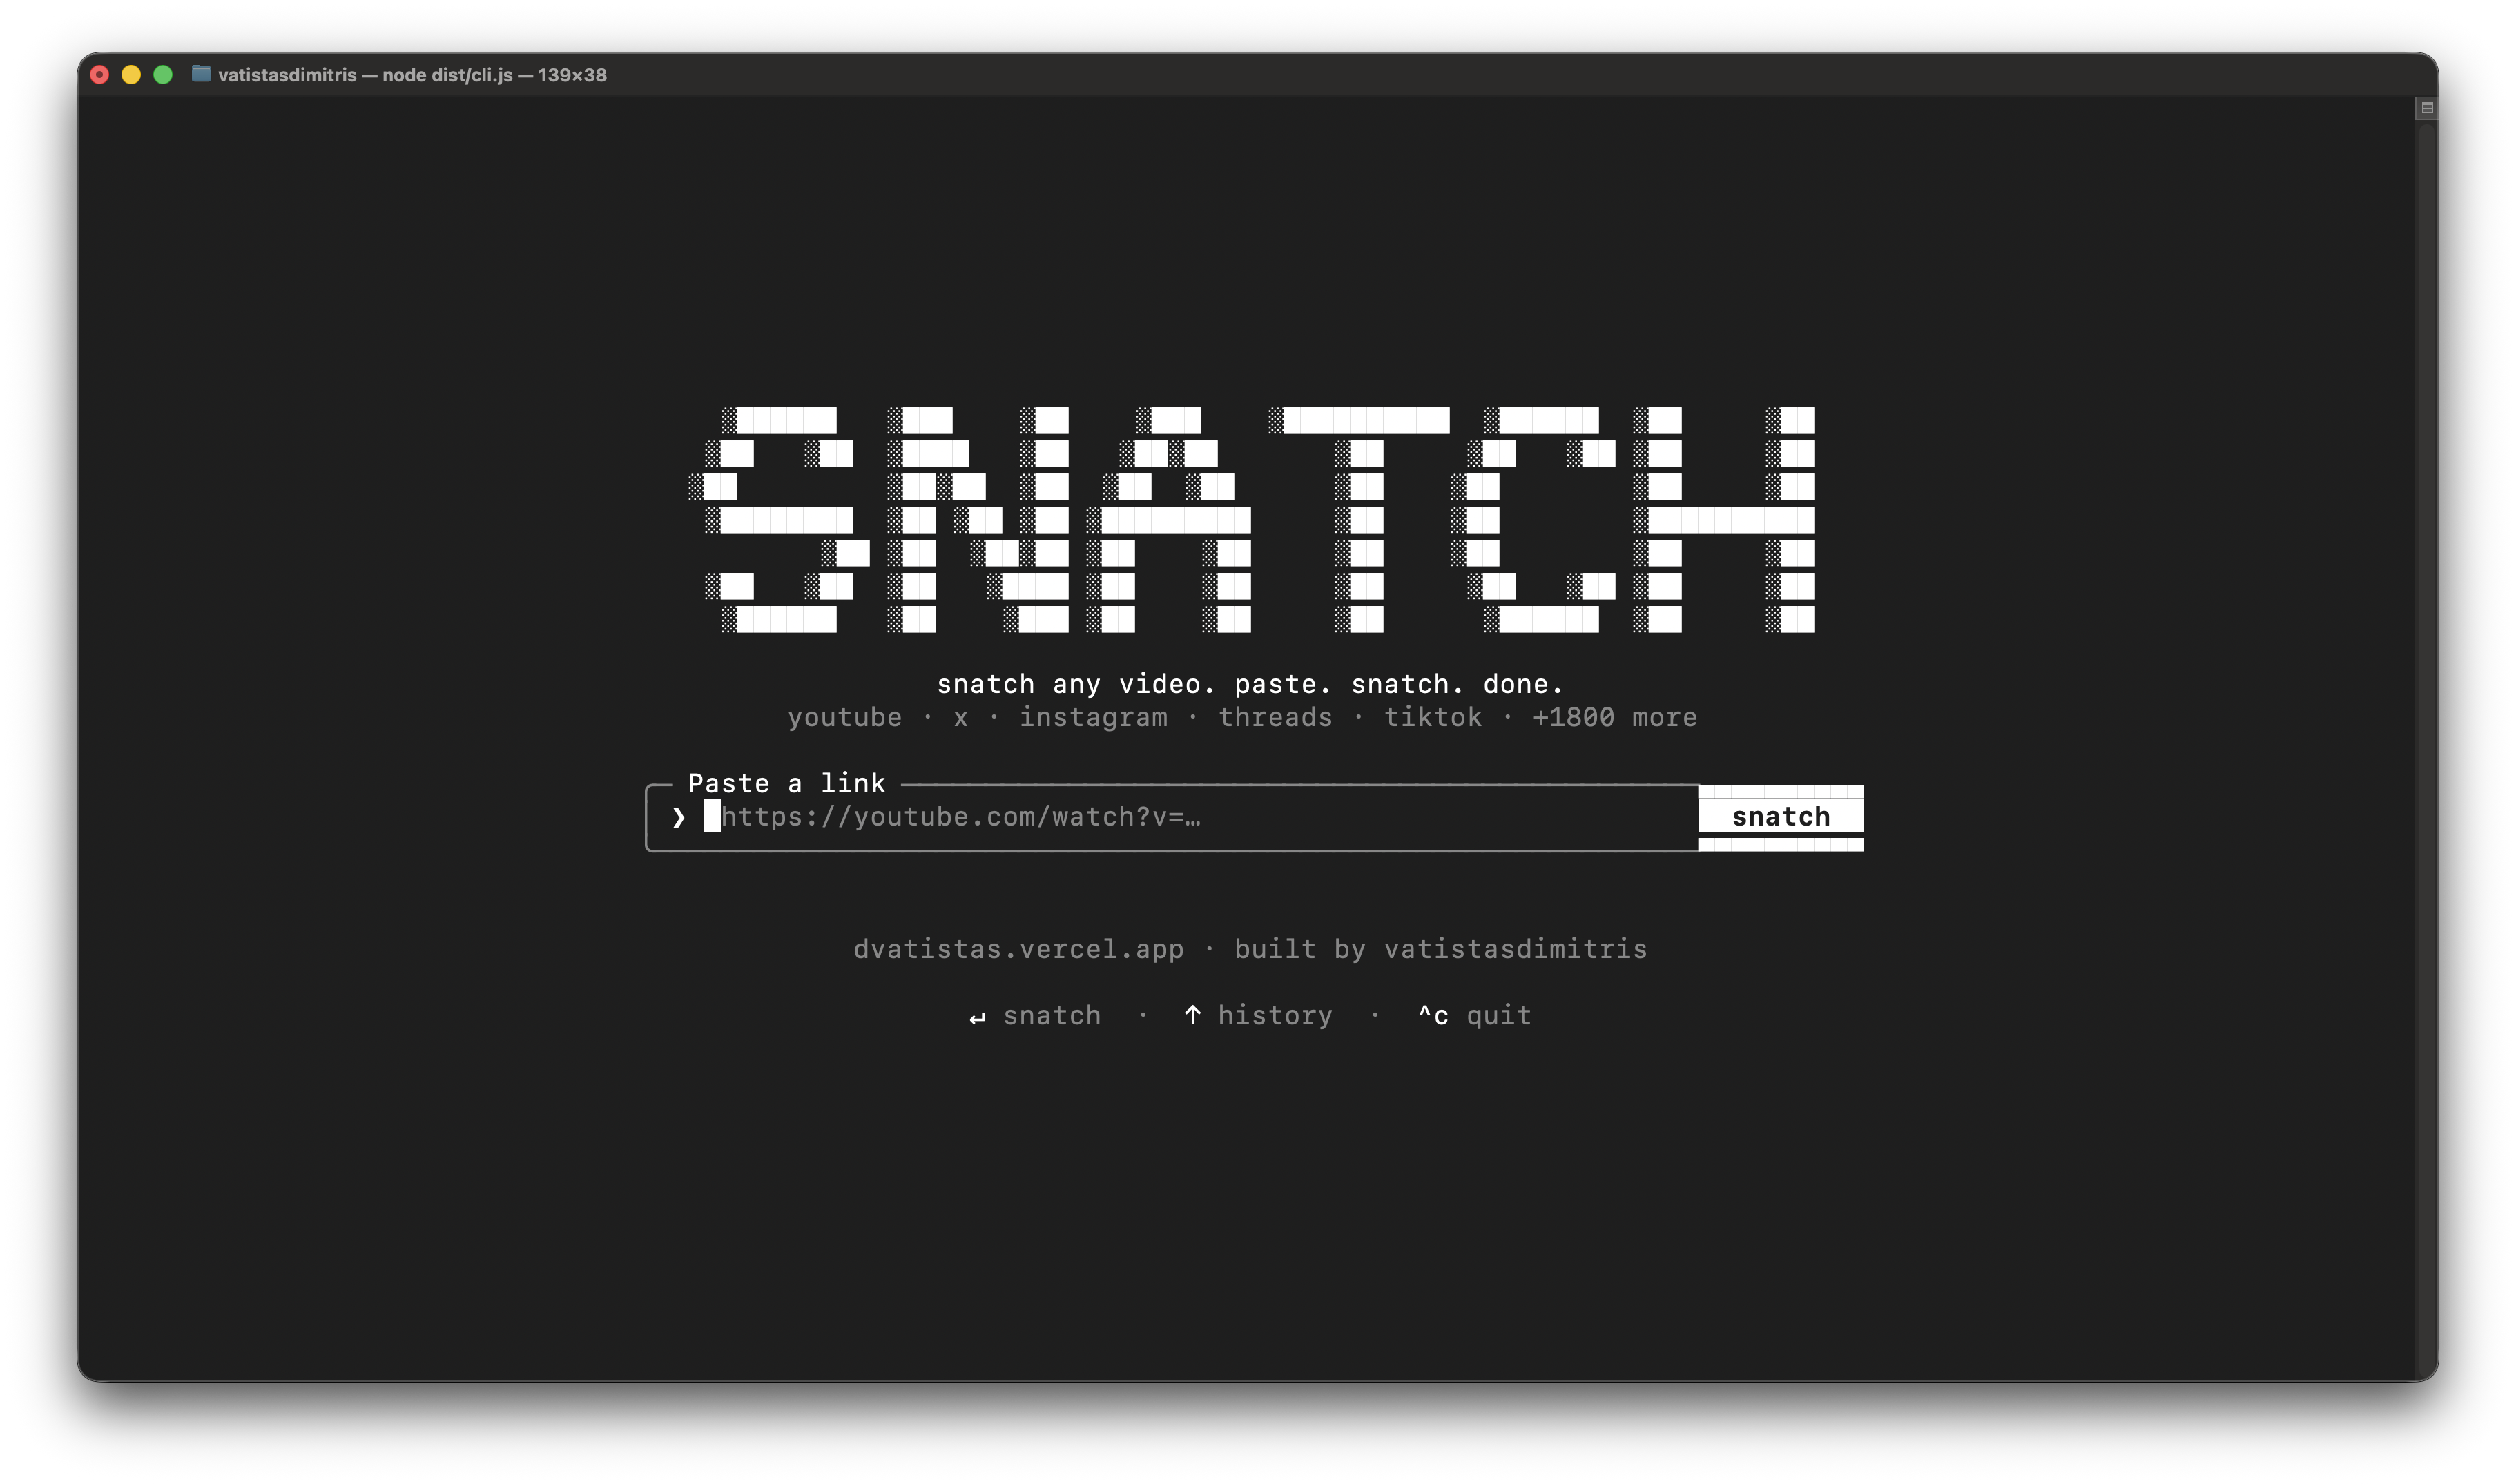
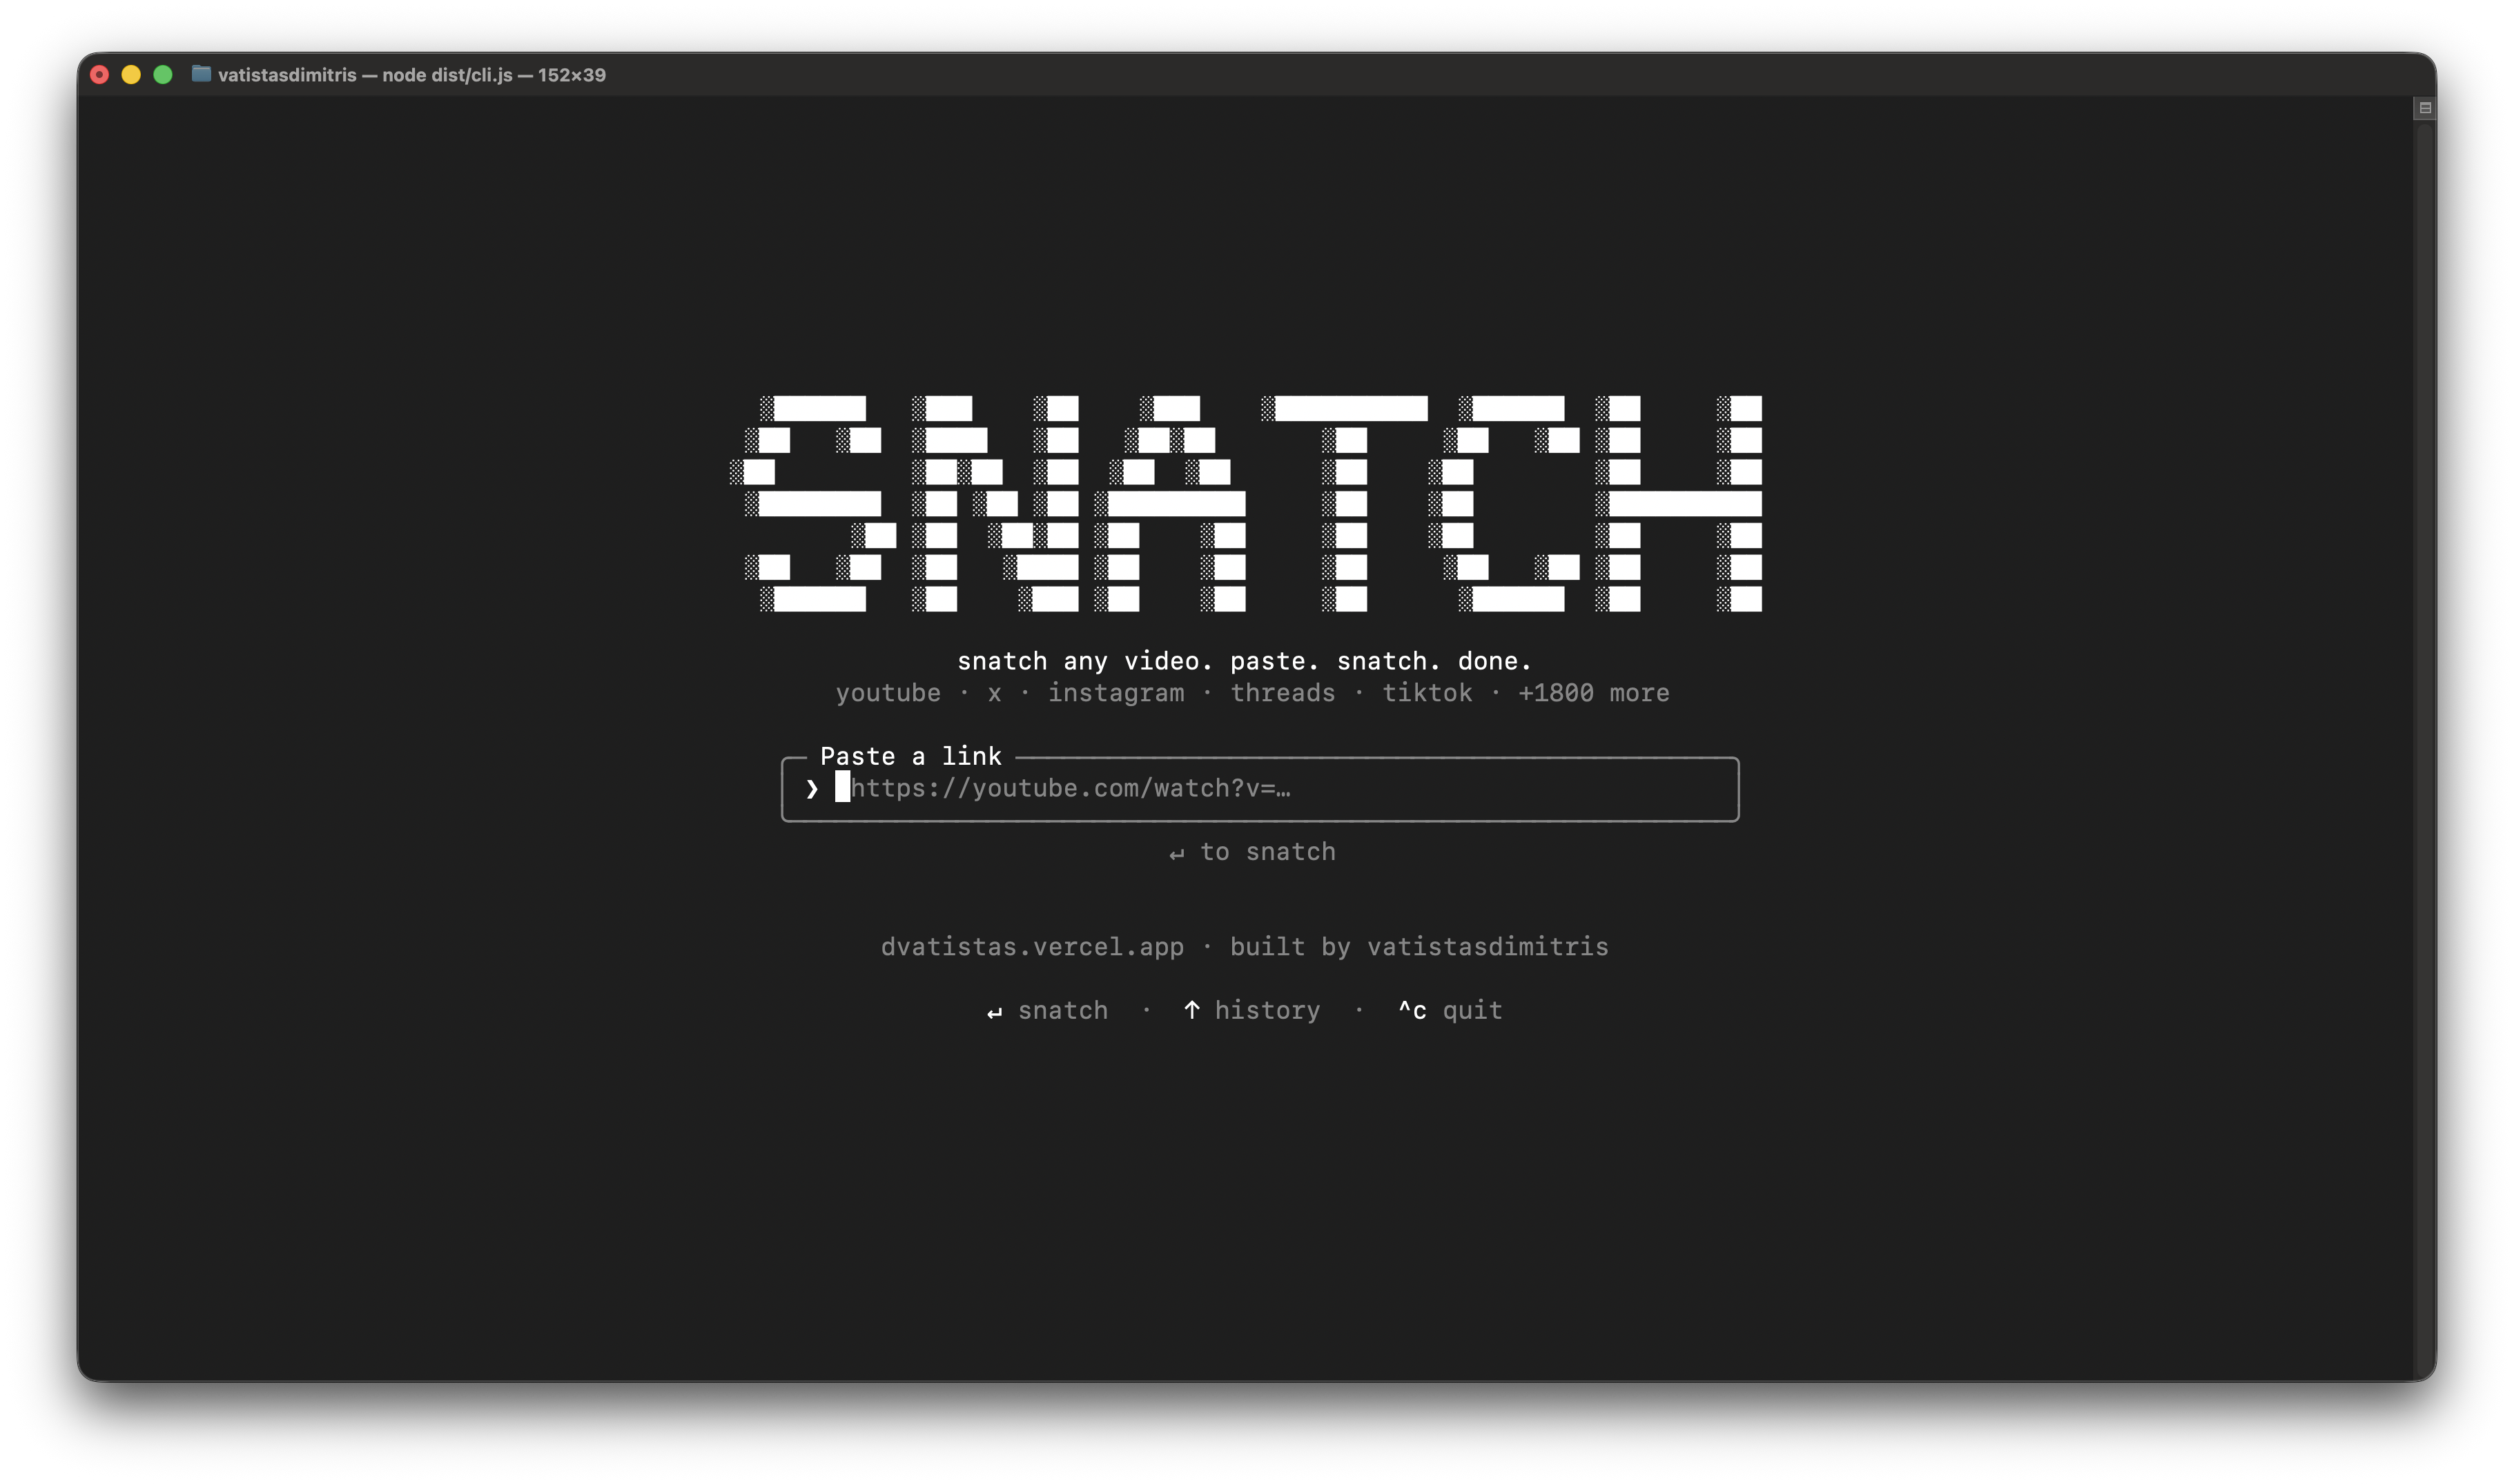
ui: remove button, show '↵ to snatch' hint below input

Changed region(s): [[0.2792, 0.2493, 0.7446, 0.5921], [0.3413, 0.6233, 0.6516, 0.6856]]

diff --git a/src/app.tsx b/src/app.tsx
@@ -29,7 +29,6 @@ import {
 } from './lib/ytdlp.js'
 
 const OUT_DIR = path.join(os.homedir(), 'Downloads')
-const YOINK_BUTTON = 'snatch'
 const DONE_LABEL = '↵ snatch another'
 const TAGLINE = 'snatch any video. paste. snatch. done.'
 
@@ -290,10 +289,6 @@ function AppContent({
     return undefined // ↑↓ / ↑ stay keyboard-only
   }
   const clickTargets: ClickTarget[] = []
-  if (phase.name === 'input') {
-    // the frame button rows above/below the label are part of the button
-    clickTargets.push({match: `  ${YOINK_BUTTON}  `, padY: 1, action: () => handleUrlSubmit(urlInput)})
-  }
   if (phase.name === 'picking') {
     for (const [index, choice] of choices.entries()) {
       clickTargets.push({match: choiceLabel(choice), action: () => handlePick({value: index})})
@@ -334,7 +329,7 @@ function AppContent({
 
       {phase.name === 'input' && (
         <Box flexDirection="column" alignItems="center">
-          <FramedInput title="Paste a link" width={boxWidth} button={YOINK_BUTTON}>
+          <FramedInput title="Paste a link" width={boxWidth}>
             <TextInput
               value={urlInput}
               onChange={setUrlInput}
@@ -354,13 +349,15 @@ function AppContent({
             <Text color={theme.gray} dimColor={theme.dimSecondary}>link in your clipboard — ⇥ to paste it</Text>
           ) : clipboardAccepted ? (
             <Text color={theme.gray} dimColor={theme.dimSecondary}>from your clipboard — ↵ to snatch it</Text>
-          ) : null}
+          ) : (
+            <Text color={theme.gray} dimColor={theme.dimSecondary}>↵ to snatch</Text>
+          )}
         </Box>
       )}
 
       {phase.name === 'probing' && (
         <Box flexDirection="column" alignItems="center">
-          <FramedInput title={platform ? platform.label : 'Paste a link'} width={boxWidth} button={YOINK_BUTTON} buttonDim>
+          <FramedInput title={platform ? platform.label : 'Paste a link'} width={boxWidth} buttonDim>
             <Text color={theme.gray} dimColor={theme.dimSecondary}>{url.length > boxWidth - 8 ? `${url.slice(0, boxWidth - 9)}…` : url}</Text>
           </FramedInput>
         </Box>